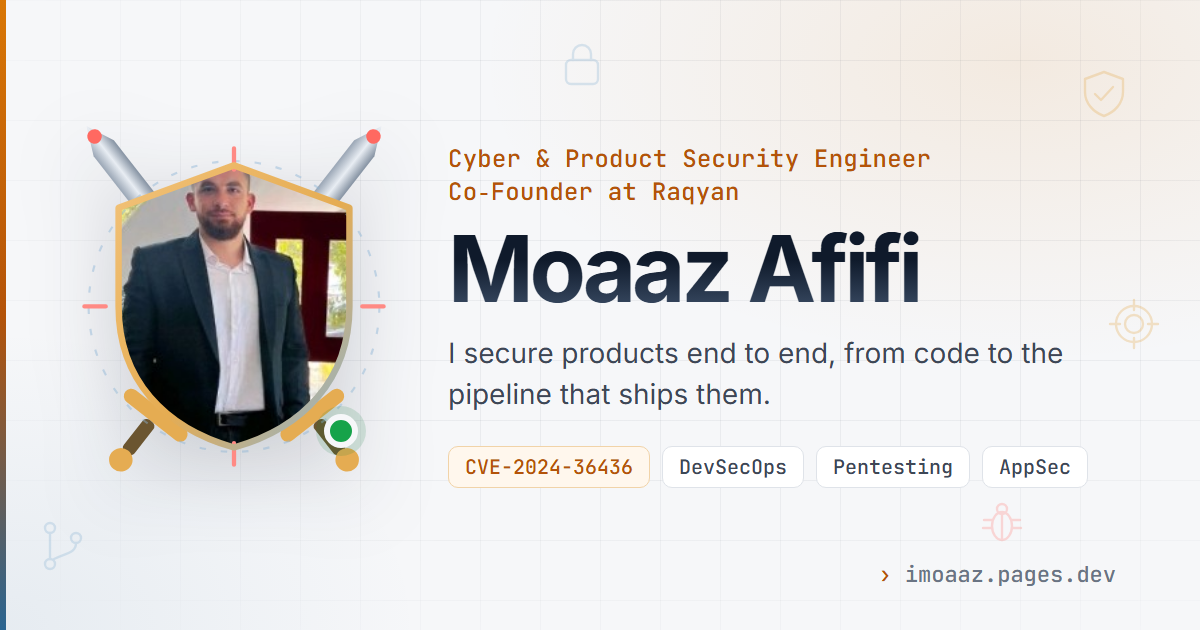
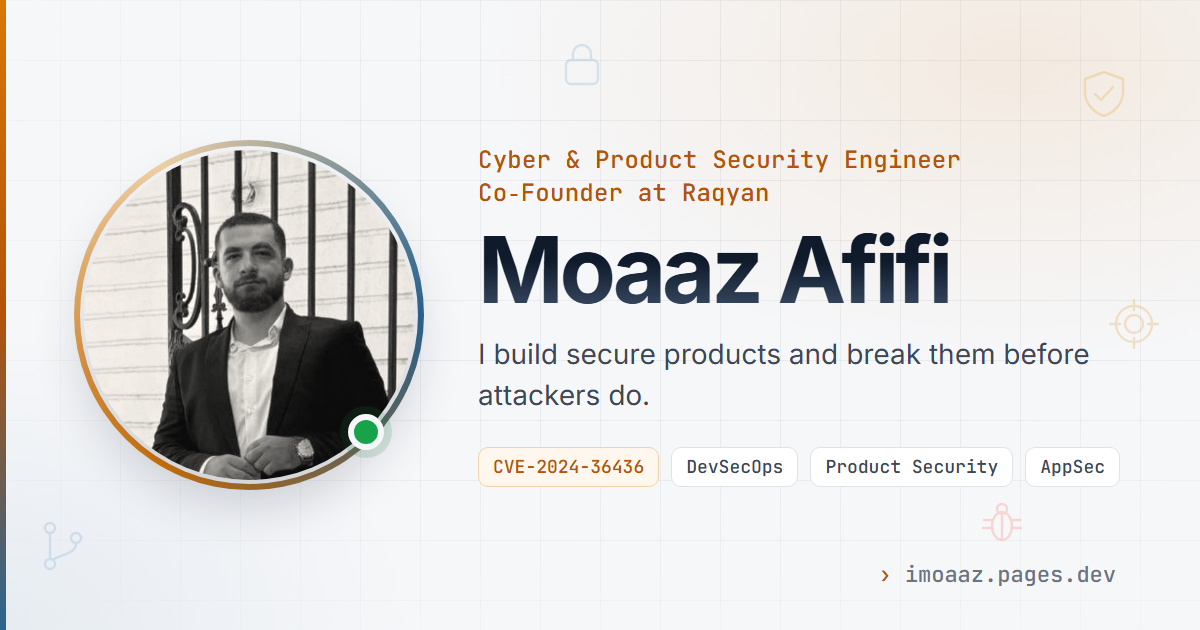
New portrait in soft monochrome, new tagline, formal link preview, no em dashes
- Hero, blog avatars and og image use a new head-and-shoulders portrait
  with a soft grayscale tone (color on hover)
- Tagline: I build secure products and break them before attackers do.
- Link preview: clean round headshot, no swords or reticle
- Replace every em dash in copy, titles and posts

Changed region(s): [[0.0617, 0.2111, 0.925, 0.7841], [0.37, 0.2413, 0.8017, 0.3317], [0.37, 0.6937, 0.925, 0.7841]]

diff --git a/tools/og.html b/tools/og.html
@@ -24,17 +24,18 @@
   }
   .icons { position: absolute; inset: 0; opacity: .3; }
   .wrap { position: absolute; inset: 0; display: flex; align-items: center; gap: 64px; padding: 0 84px; }
-  .shield { position: relative; flex: none; width: 300px; height: 342px; filter: drop-shadow(0 24px 40px rgba(15,23,42,.18)); }
-  .shield svg { position: absolute; inset: 0; width: 100%; height: 100%; overflow: visible; }
-  .photo { position: absolute; left: 11.43%; top: 6.25%; width: 77.14%; height: 82.5%; clip-path: url(#clip); overflow: hidden; background: #e9edf2; }
-  .photo img { width: 100%; height: 100%; object-fit: cover; object-position: 45% 10%; transform: scale(1.9); transform-origin: 45% 24%; }
-  .dot { position: absolute; right: 26px; bottom: 38px; width: 34px; height: 34px; border-radius: 50%; background: #16a34a; border: 6px solid #f6f7f9; box-shadow: 0 0 0 8px rgba(21,128,61,.15); }
+  .portrait { position: relative; flex: none; width: 330px; height: 330px; }
+  .portrait::before { content: ""; position: absolute; inset: -10px; border-radius: 50%; background: conic-gradient(from 210deg, #d97706, #f1d3a8, #2a6592, #d97706); }
+  .portrait::after { content: ""; position: absolute; inset: -4px; border-radius: 50%; background: #f6f7f9; }
+  .photo { position: absolute; inset: 0; z-index: 1; border-radius: 50%; overflow: hidden; background: #e9edf2; box-shadow: 0 24px 50px rgba(15,23,42,.18); }
+  .photo img { width: 100%; height: 100%; object-fit: cover; object-position: 50% 0%; transform: scale(1.3); transform-origin: 50% 12%; filter: grayscale(1) sepia(0.12) contrast(0.92) brightness(1.06); }
+  .dot { position: absolute; z-index: 2; right: 30px; bottom: 30px; width: 36px; height: 36px; border-radius: 50%; background: #16a34a; border: 6px solid #f6f7f9; box-shadow: 0 0 0 8px rgba(21,128,61,.15); }
   .kicker { font: 500 24px/1.4 "JetBrains Mono", monospace; color: #b45309; letter-spacing: .01em; }
   h1 { margin: 14px 0 18px; font-size: 92px; line-height: 1; font-weight: 700; letter-spacing: -0.045em;
        background: linear-gradient(180deg, #0f1a2b 40%, #3d4f68); -webkit-background-clip: text; color: transparent; }
   .line { font-size: 28px; line-height: 1.45; color: #3d4756; max-width: 640px; }
   .chips { display: flex; gap: 12px; margin-top: 32px; }
-  .chip { font: 500 20px/1 "JetBrains Mono", monospace; padding: 10px 16px; border-radius: 10px; border: 1px solid #dfe3e9; background: #ffffff; color: #3d4756; }
+  .chip { white-space: nowrap; font: 500 18px/1 "JetBrains Mono", monospace; padding: 10px 14px; border-radius: 10px; border: 1px solid #dfe3e9; background: #ffffff; color: #3d4756; }
   .chip.hl { color: #b45309; border-color: #f1d3a8; background: #fff7ed; }
   .url { position: absolute; right: 84px; bottom: 44px; font: 500 22px/1 "JetBrains Mono", monospace; color: #6a7484; }
   .url b { color: #b45309; font-weight: 500; }
@@ -53,33 +54,19 @@
   </svg>
 
   <div class="wrap">
-    <div class="shield">
-      <svg viewBox="0 0 140 160" aria-hidden="true">
-        <defs>
-          <clipPath id="clip" clipPathUnits="objectBoundingBox"><path d="M.5 0 L1 .15 V.5 C1 .76 .8 .93 .5 1 C.2 .93 0 .76 0 .5 V.15 Z"/></clipPath>
-          <linearGradient id="st" x1="0" y1="0" x2="1" y2="0"><stop offset="0" stop-color="#9aa6b5"/><stop offset=".5" stop-color="#e8edf3"/><stop offset="1" stop-color="#8592a2"/></linearGradient>
-          <linearGradient id="ol" x1="0" y1="0" x2="1" y2="1"><stop offset="0" stop-color="#f2c279"/><stop offset=".55" stop-color="#e5ac52"/><stop offset="1" stop-color="#8bb4d4"/></linearGradient>
-        </defs>
-        <g transform="translate(70 80) rotate(-38)"><path d="M0 -112 L6 -99 V56 H-6 V-99 Z" fill="url(#st)"/><rect x="-18" y="56" width="36" height="7" rx="3.5" fill="#e5ac52"/><rect x="-3.2" y="63" width="6.4" height="19" rx="2.4" fill="#6b5530"/><circle cy="86" r="5.5" fill="#e5ac52"/><circle cy="-106" r="3.4" fill="#ff6961"/></g>
-        <g transform="translate(70 80) rotate(38)"><path d="M0 -112 L6 -99 V56 H-6 V-99 Z" fill="url(#st)"/><rect x="-18" y="56" width="36" height="7" rx="3.5" fill="#e5ac52"/><rect x="-3.2" y="63" width="6.4" height="19" rx="2.4" fill="#6b5530"/><circle cy="86" r="5.5" fill="#e5ac52"/><circle cy="-106" r="3.4" fill="#ff6961"/></g>
-      </svg>
-      <div class="photo"><img src="../assets/img/moaaz.jpg" alt=""></div>
-      <svg viewBox="0 0 140 160" aria-hidden="true">
-        <circle cx="70" cy="76" r="68" fill="none" stroke="#8bb4d4" stroke-opacity=".45" stroke-width="1" stroke-dasharray="3 7"/>
-        <path d="M70 2v10M70 140v10M0 76h10M130 76h10" stroke="#ff8a84" stroke-width="2" stroke-linecap="round"/>
-        <path d="M70 10 L124 29.8 V76 C124 110.3 102.4 132.8 70 142 C37.6 132.8 16 110.3 16 76 V29.8 Z" fill="none" stroke="url(#ol)" stroke-width="3" stroke-linejoin="round"/>
-      </svg>
+    <div class="portrait">
+      <div class="photo"><img src="../public/assets/img/moaaz-portrait.jpg" alt=""></div>
       <span class="dot"></span>
     </div>
 
     <div>
       <p class="kicker">Cyber &amp; Product Security Engineer<br>Co&#8209;Founder at Raqyan</p>
       <h1>Moaaz Afifi</h1>
-      <p class="line">I secure products end to end, from code to the pipeline that ships them.</p>
+      <p class="line">I build secure products and break them before attackers do.</p>
       <div class="chips">
         <span class="chip hl">CVE-2024-36436</span>
         <span class="chip">DevSecOps</span>
-        <span class="chip">Pentesting</span>
+        <span class="chip">Product Security</span>
         <span class="chip">AppSec</span>
       </div>
     </div>

diff --git a/public/assets/css/style.css b/public/assets/css/style.css
@@ -1,5 +1,5 @@
 /* ============================================================
-   imoaaz — Moaaz Afifi
+   imoaaz | Moaaz Afifi
    Design system: Inter (text) · JetBrains Mono (technical labels)
    One accent (amber) for interaction; steel blue for quiet labels;
    green only for "available / ok" status.
@@ -32,7 +32,7 @@
   --sans: "Inter", system-ui, -apple-system, "Segoe UI", Roboto, sans-serif;
 
   /* type scale */
-  --fs-xs: 0.8125rem;   /* 13px — smallest text on the site */
+  --fs-xs: 0.8125rem;   /* 13px, smallest text on the site */
   --fs-sm: 0.875rem;    /* 14px */
   --fs-base: 1.0625rem; /* 17px */
   --fs-md: 1.125rem;    /* 18px */
@@ -555,10 +555,11 @@ strong { color: var(--bright); font-weight: 600; }
   width: 100%;
   height: 100%;
   object-fit: cover;
-  object-position: 45% 10%;
-  transform: scale(1.9);
-  transform-origin: 45% 24%;
+  object-position: 50% 0%;
+  filter: grayscale(1) sepia(0.12) contrast(0.92) brightness(1.06);
+  transition: filter 0.6s ease;
 }
+.hero-photo:hover img { filter: none; }
 .shield-swords {
   position: absolute;
   inset: 0;
@@ -683,6 +684,7 @@ strong { color: var(--bright); font-weight: 600; }
   object-position: 45% 15%;
   transform: scale(3);
   transform-origin: 45% 19%;
+  filter: grayscale(1) sepia(0.12) contrast(0.92) brightness(1.06);
 }
 .face-sm { width: 44px; height: 44px; }
 .face-lg { width: 64px; height: 64px; }

diff --git a/public/assets/js/main.js b/public/assets/js/main.js
@@ -1,4 +1,4 @@
-/* imoaaz — site chrome: nav, scroll reveals, spotlight, progress, copy.
+/* imoaaz: site chrome: nav, scroll reveals, spotlight, progress, copy.
    The interactive terminal lives in terminal.js.
    No frameworks, no dependencies. */
 
@@ -376,7 +376,7 @@
       if (!key) {
         var to = form.getAttribute("data-to");
         var subject = "[" + data.topic + "] from " + data.name;
-        var body = data.message + "\n\n— " + data.name + " <" + data.email + ">";
+        var body = data.message + "\n\nFrom: " + data.name + " <" + data.email + ">";
         window.location.href = "mailto:" + to + "?subject=" + encodeURIComponent(subject) + "&body=" + encodeURIComponent(body);
         setStatus("Your email app should open with the message ready to send.", "ok");
         return;
@@ -506,7 +506,7 @@
 
     shareBtn.addEventListener("click", function () {
       var url = cvReady ? cvUrl : sectionUrl;
-      var data = { title: "Moaaz Afifi — CV", text: "Moaaz Afifi, Cyber & Product Security Engineer and Co-Founder at Raqyan", url: url };
+      var data = { title: "Moaaz Afifi | CV", text: "Moaaz Afifi, Cyber & Product Security Engineer and Co-Founder at Raqyan", url: url };
       var done = function (msg) {
         shareLabel.textContent = msg;
         setTimeout(function () { shareLabel.textContent = "Share"; }, 1800);

diff --git a/src/data/experience.ts b/src/data/experience.ts
@@ -30,7 +30,7 @@ export const experience: ExperienceEntry[] = [
     ],
   },
   {
-    dates: 'Feb 2025 — Present',
+    dates: 'Feb 2025 – Present',
     role: 'Cyber Security Consultant & Penetration Tester',
     org: 'GCC',
     type: 'Part-time',
@@ -42,7 +42,7 @@ export const experience: ExperienceEntry[] = [
     ],
   },
   {
-    dates: '2023 — Present',
+    dates: '2023 – Present',
     role: 'Cyber Security Researcher',
     org: 'HackerOne',
     type: 'Part-time',
@@ -54,7 +54,7 @@ export const experience: ExperienceEntry[] = [
     ],
   },
   {
-    dates: 'Jun 2025 — Aug 2025',
+    dates: 'Jun 2025 – Aug 2025',
     role: 'Application Security Engineer',
     org: 'Robusta Technology Group (RTG)',
     type: 'Full-time',
@@ -65,7 +65,7 @@ export const experience: ExperienceEntry[] = [
     ],
   },
   {
-    dates: 'Oct 2023 — Jan 2024',
+    dates: 'Oct 2023 – Jan 2024',
     role: 'Offensive Security Engineer',
     org: 'Cybrany',
     type: 'Part-time',

diff --git a/src/data/site.ts b/src/data/site.ts
@@ -1,7 +1,7 @@
 export const SITE_URL = 'https://imoaaz.pages.dev';
 export const OG_IMAGE = `${SITE_URL}/assets/img/og.png`;
 export const EMAIL = 'imooaaz@gmail.com';
-export const AVATAR = 'https://avatars.githubusercontent.com/u/70091653?v=4&s=460';
+export const AVATAR = '/assets/img/moaaz-portrait.jpg';
 
 export const SOCIALS = {
   linkedin: 'https://www.linkedin.com/in/imooaaz/',

diff --git a/src/content/blog/comments-to-rce.md b/src/content/blog/comments-to-rce.md
@@ -1,7 +1,7 @@
 ---
 title: "From Comments to Command Execution: How an E-Book Platform Gave Me RCE"
 description: "A security research writeup: how a comment feature on an e-book platform led from stored XSS to a file-upload bypass and full remote code execution."
-ogDescription: From a stored XSS in a comment feature to remote code execution — a full file-upload bypass writeup.
+ogDescription: "From a stored XSS in a comment feature to remote code execution: a full file-upload bypass writeup."
 dek: From stored XSS in comments to file upload to remote code execution.
 date: 2024-12-20
 readTime: 6
@@ -34,7 +34,7 @@ platform to gain a comprehensive understanding of its attack surface. Using
 Wappalyzer, I identified the platform's tech stack, revealing that it was
 running on Linux and equipped with security features like Imunify360 and a
 Web Application Firewall (WAF). Additionally, it utilized NGINX as the web
-server and PHP as the scripting language — a combination that presented
+server and PHP as the scripting language, a combination that presented
 intriguing possibilities for exploitation.
 
 ## The comments feature: my entry point
@@ -51,7 +51,7 @@ vulnerabilities. The workflow was straightforward:
 
 To my surprise, the platform accepted an SVG file containing an XSS payload,
 and when the profile image was clicked, the payload executed successfully.
-I had discovered a stored XSS vulnerability — my first win.
+I had discovered a stored XSS vulnerability: my first win.
 
 ## Phase 1: the stored XSS experiment
 
@@ -103,7 +103,7 @@ platform was scrutinizing the file's signature, not just its extension.
   format, such as <code>89 50 4E 47</code> for PNG files.
 </blockquote>
 
-Aha! The platform was checking the file's magic bytes — its signature — to
+Aha! The platform was checking the file's magic bytes (its signature) to
 determine whether it was a legitimate image. This revelation got my mental
 gears turning.
 
@@ -131,14 +131,14 @@ executed a command through the `cmd` parameter:
 https://[target]/uploads/shell.php?cmd=ls
 ```
 
-The response returned the output of `ls` — a directory listing
+The response returned the output of `ls`: a directory listing
 from the server. I had achieved remote code execution. Game over.
 
 ## Impact
 
-1. **Full server compromise** — an attacker could execute arbitrary commands on the server.
-2. **Data breach** — sensitive user data and content could be accessed and exfiltrated.
-3. **Further attacks** — the compromised server could be used to launch additional attacks.
+1. **Full server compromise**: an attacker could execute arbitrary commands on the server.
+2. **Data breach**: sensitive user data and content could be accessed and exfiltrated.
+3. **Further attacks**: the compromised server could be used to launch additional attacks.
 
 ## Lessons learned and recommendations
 
@@ -149,8 +149,8 @@ This research project taught me several valuable lessons:
    - Store uploaded files outside the web root, or serve them from a separate domain.
    - Enforce a strict allowlist of file extensions and MIME types.
    - Never trust user-supplied filenames.
-2. **Security is a chain** — the individual flaws were manageable, but chained together they led to full compromise.
-3. **Keep learning** — understanding how defenses work (magic bytes, WAFs) is what makes bypassing them possible.
+2. **Security is a chain**: the individual flaws were manageable, but chained together they led to full compromise.
+3. **Keep learning**: understanding how defenses work (magic bytes, WAFs) is what makes bypassing them possible.
 
 ## Final thoughts
 
@@ -168,5 +168,5 @@ boundaries of what's possible. Happy hacking!
 
 *(Demonstrated and fixed in 2023.)*
 
-**Moaaz Afifi** — [Linkedin](https://www.linkedin.com/in/imooaaz/) ·
+**Moaaz Afifi** · [Linkedin](https://www.linkedin.com/in/imooaaz/) ·
 [X](https://twitter.com/imooaaz)

diff --git a/src/content/blog/waf-bypass.md b/src/content/blog/waf-bypass.md
@@ -21,7 +21,7 @@ of how the platform's own link shortener became the key to bypassing it.
 
 ## The set-up: the perils of the search box
 
-The target had a search feature — the classic entry point. I started
+The target had a search feature, the classic entry point. I started
 probing the query parameter with the usual suspects:
 
 ```
@@ -29,7 +29,7 @@ https://example.com/search?q=<script>alert(1)</script>
 ```
 
 Every single time: `403 Forbidden`. I tried encoding, case
-variation, comments, junk payloads — the WAF was relentless. Frustration
+variation, comments, junk payloads: the WAF was relentless. Frustration
 started to creep in. And that's exactly when I remembered the first rule
 of hunting: when a door is locked, stop pushing it and look for a window.
 
@@ -56,13 +56,13 @@ The attack path was simple once I saw it:
 2. I fed that URL to the platform's link shortener, getting back a clean-looking short link on the platform's trusted short domain.
 3. I submitted the shortened link through the search feature.
 
-The WAF inspected the request, saw the platform's own shortener domain —
-trusted, internal, harmless — and let it through. Then the redirect did
+The WAF inspected the request, saw the platform's own shortener domain (trusted,
+internal, harmless) and let it through. Then the redirect did
 the rest: the browser followed the short link straight to my payload, and
 my XSS fired.
 
 All that frustration evaporated the moment that alert box popped. The WAF
-never saw the payload — it only ever saw the wrapper.
+never saw the payload; it only ever saw the wrapper.
 
 ## Lessons learned
 
@@ -75,7 +75,7 @@ never saw the payload — it only ever saw the wrapper.
 
 ## Final thoughts
 
-A blocked payload isn't the end of the hunt — it's a hint to change your
+A blocked payload isn't the end of the hunt. It's a hint to change your
 angle. Understand exactly what the defense is inspecting, then find a way
 to hand it something it trusts while the real payload travels behind it.
 Happy hunting!
@@ -85,5 +85,5 @@ Happy hunting!
   وآله وصحبه وسلم.
 </p>
 
-**Moaaz Afifi** — [Linkedin](https://www.linkedin.com/in/imooaaz/) ·
+**Moaaz Afifi** · [Linkedin](https://www.linkedin.com/in/imooaaz/) ·
 [X](https://twitter.com/imooaaz)

diff --git a/src/content/blog/fuzz-the-type.md b/src/content/blog/fuzz-the-type.md
@@ -1,7 +1,7 @@
 ---
 title: Fuzz the type, not just the value
 description: "A one-line habit that keeps finding authorization bugs: swap a parameter's type, not just its value. From a bug bounty hunter's notebook."
-ogDescription: Swap the type, not just the payload — a one-line habit that keeps finding authorization bugs.
+ogDescription: "Swap the type, not just the payload: a one-line habit that keeps finding authorization bugs."
 dek: Change a parameter's type, not just its value, to find authorization bugs.
 date: 2026-09-14
 readTime: 2
@@ -12,7 +12,7 @@ cover: /assets/img/blog/fuzz-the-type.svg
 ---
 
 Next time you hit an auth or permission check, don't just fuzz the
-value — **fuzz the type**.
+value: **fuzz the type**.
 
 Swap a string parameter for an object, an array, or a boolean:
 
@@ -28,21 +28,21 @@ and the authorization check gets skipped entirely.
 
 ## Where this earns acceptances
 
-- **NoSQL lookups** — Mongo-style operators
+- **NoSQL lookups**: Mongo-style operators
   (`{"$ne": null}`, `{"$gt": ""}`) sail
   through comparisons that were only ever tested against strings.
-- **ORMs and loose comparisons** — a boolean or an
+- **ORMs and loose comparisons**: a boolean or an
   array can bypass an equality or membership check written with
   strings in mind.
-- **Type juggling** — PHP-style loose comparison
+- **Type juggling**: PHP-style loose comparison
   behavior is old news, but it's still alive and well behind JSON
   APIs.
 
 ## How to run it
 
-Keep a small type-swap list — `{}`,
+Keep a small type-swap list (`{}`,
 `{"$ne": null}`, `[]`, `true`,
-`false`, `null`, `0` — and fire it
+`false`, `null`, `0`) and fire it
 at every ID-like parameter once the request is mapped. It takes
 minutes to build the list and seconds per endpoint.
 

diff --git a/README.md b/README.md
@@ -96,7 +96,7 @@ Add an object to `experience` in `src/data/experience.ts` (newest first):
 
 ```ts
 {
-  dates: 'Jan 2027 — Present',
+  dates: 'Jan 2027 – Present',
   role: 'Security Engineer',
   org: 'Company',
   type: 'Full-time',
